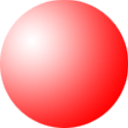
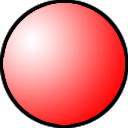
센서 이미지 추가 및 가시성 증가
floor.html에 상태에 따른 마커 이미지 지정 코드 추가.
안쓰는 html삭제

Changed region(s): [[0.0, 0.0, 1.0, 1.0]]

diff --git a/django_iot/logtable/templates/logtable/floor.html b/django_iot/logtable/templates/logtable/floor.html
@@ -185,6 +185,14 @@ function displaySensors(sensor){
     markerImage = new kakao.maps.MarkerImage(imageSrc, imageSize, imageOption);
     markerPosition = new kakao.maps.LatLng(sensor['position_x'], sensor['position_y']);
   }
+  //센서가 위험상황일 때
+  else if(sensor['sensor_status']=='WN'){ 
+    imageSrc = '/static/img/WN.png';  
+    imageSize = new kakao.maps.Size(10, 10); 
+    imageOption = {offset: new kakao.maps.Point(5, 5)}; 
+    markerImage = new kakao.maps.MarkerImage(imageSrc, imageSize, imageOption);
+    markerPosition = new kakao.maps.LatLng(sensor['position_x'], sensor['position_y']);
+  }
   var marker = new kakao.maps.Marker({
     position: markerPosition, 
     image: markerImage // 마커이미지 설정 
